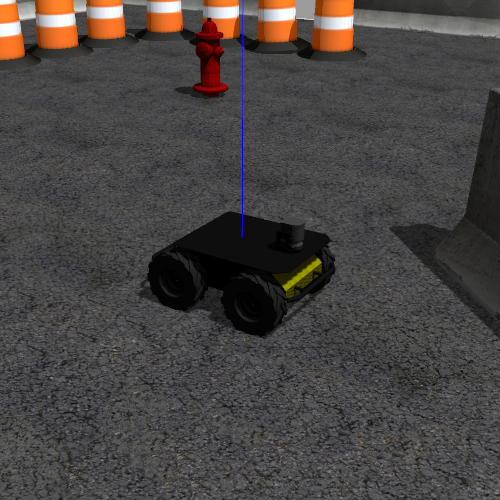
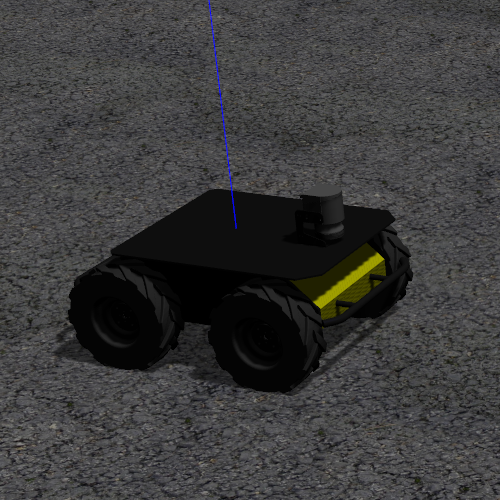
increase images size

diff --git a/README.md b/README.md
@@ -1,7 +1,7 @@
 ## RRT* Global Planner Plugin
 
 <p float="left">
-  <img src="doc/rrt_star_husky_path.gif" width="400" />
+  <img src="doc/rrt_star_husky_path.gif" width="800" />
 </p>
 
 This is a ROS Global Planner Plugin that implements the RRT* (Rapidly-exploring Random Tree Star) path planning algorithm. I tried to keep the code simple and clean to help everyone that is learning ROS and the Navigation Stack. I had several difficulties learning how to write my first Global Planner Plugin and I hope this package helps you to learn it faster.
@@ -44,8 +44,8 @@ The Navigation Stack needs a perception sensor to work and the husky package doe
 ```
 
 <p float="left">
-  <img src="doc/no_laser_husky.png" width="200" />
-  <img src="doc/laser_husky.png" width="200" /> 
+  <img src="doc/no_laser_husky.png" width="400" />
+  <img src="doc/laser_husky.png" width="400" /> 
 </p>
 ### Tutorial: Writing A Global Path Planner As Plugin in ROS
 
